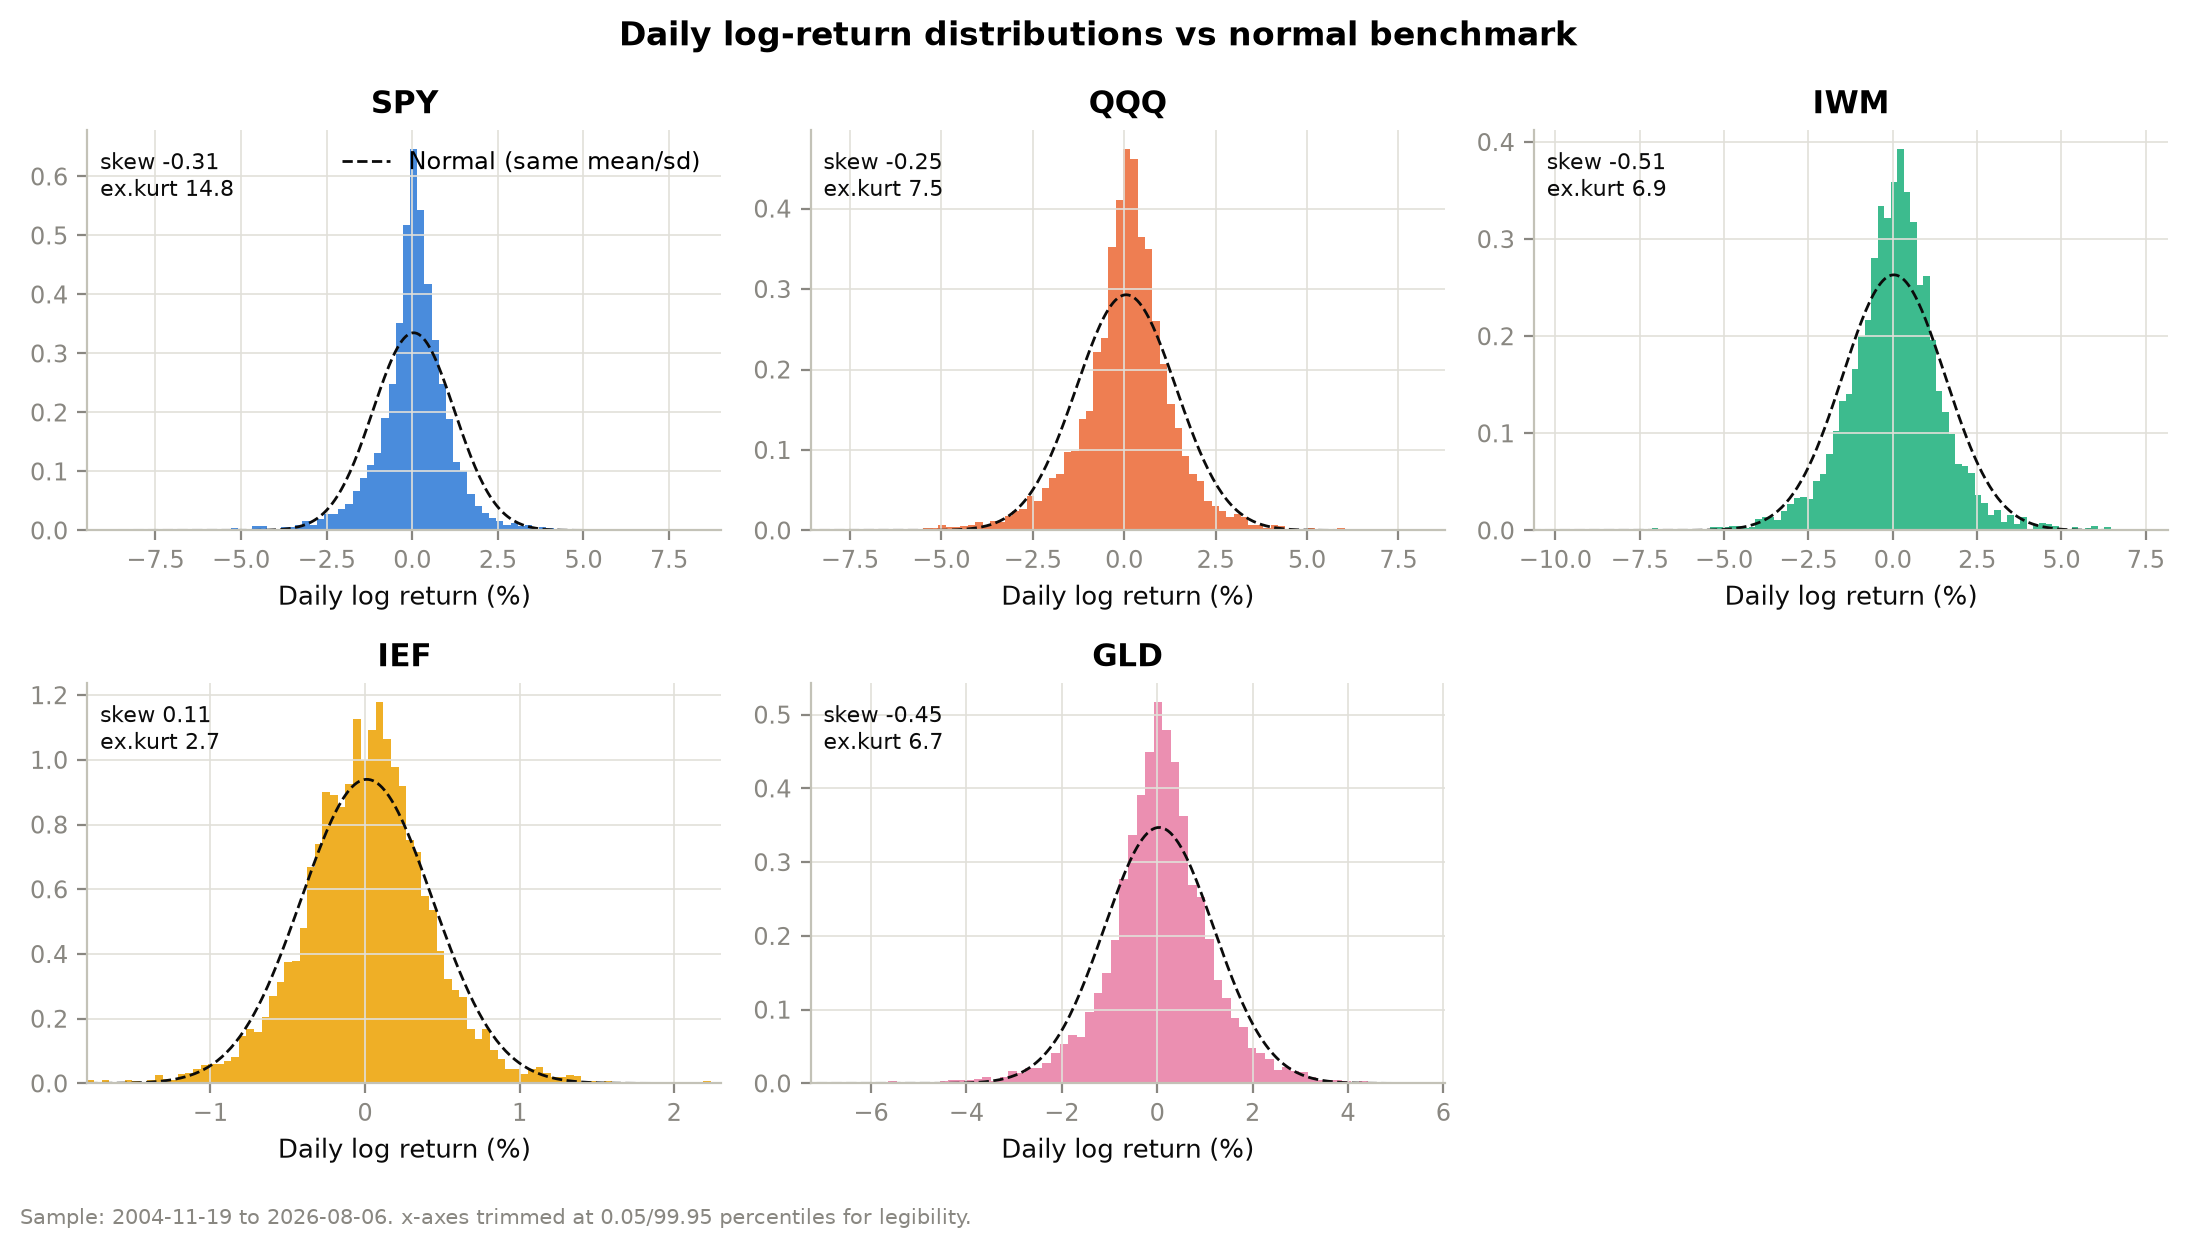
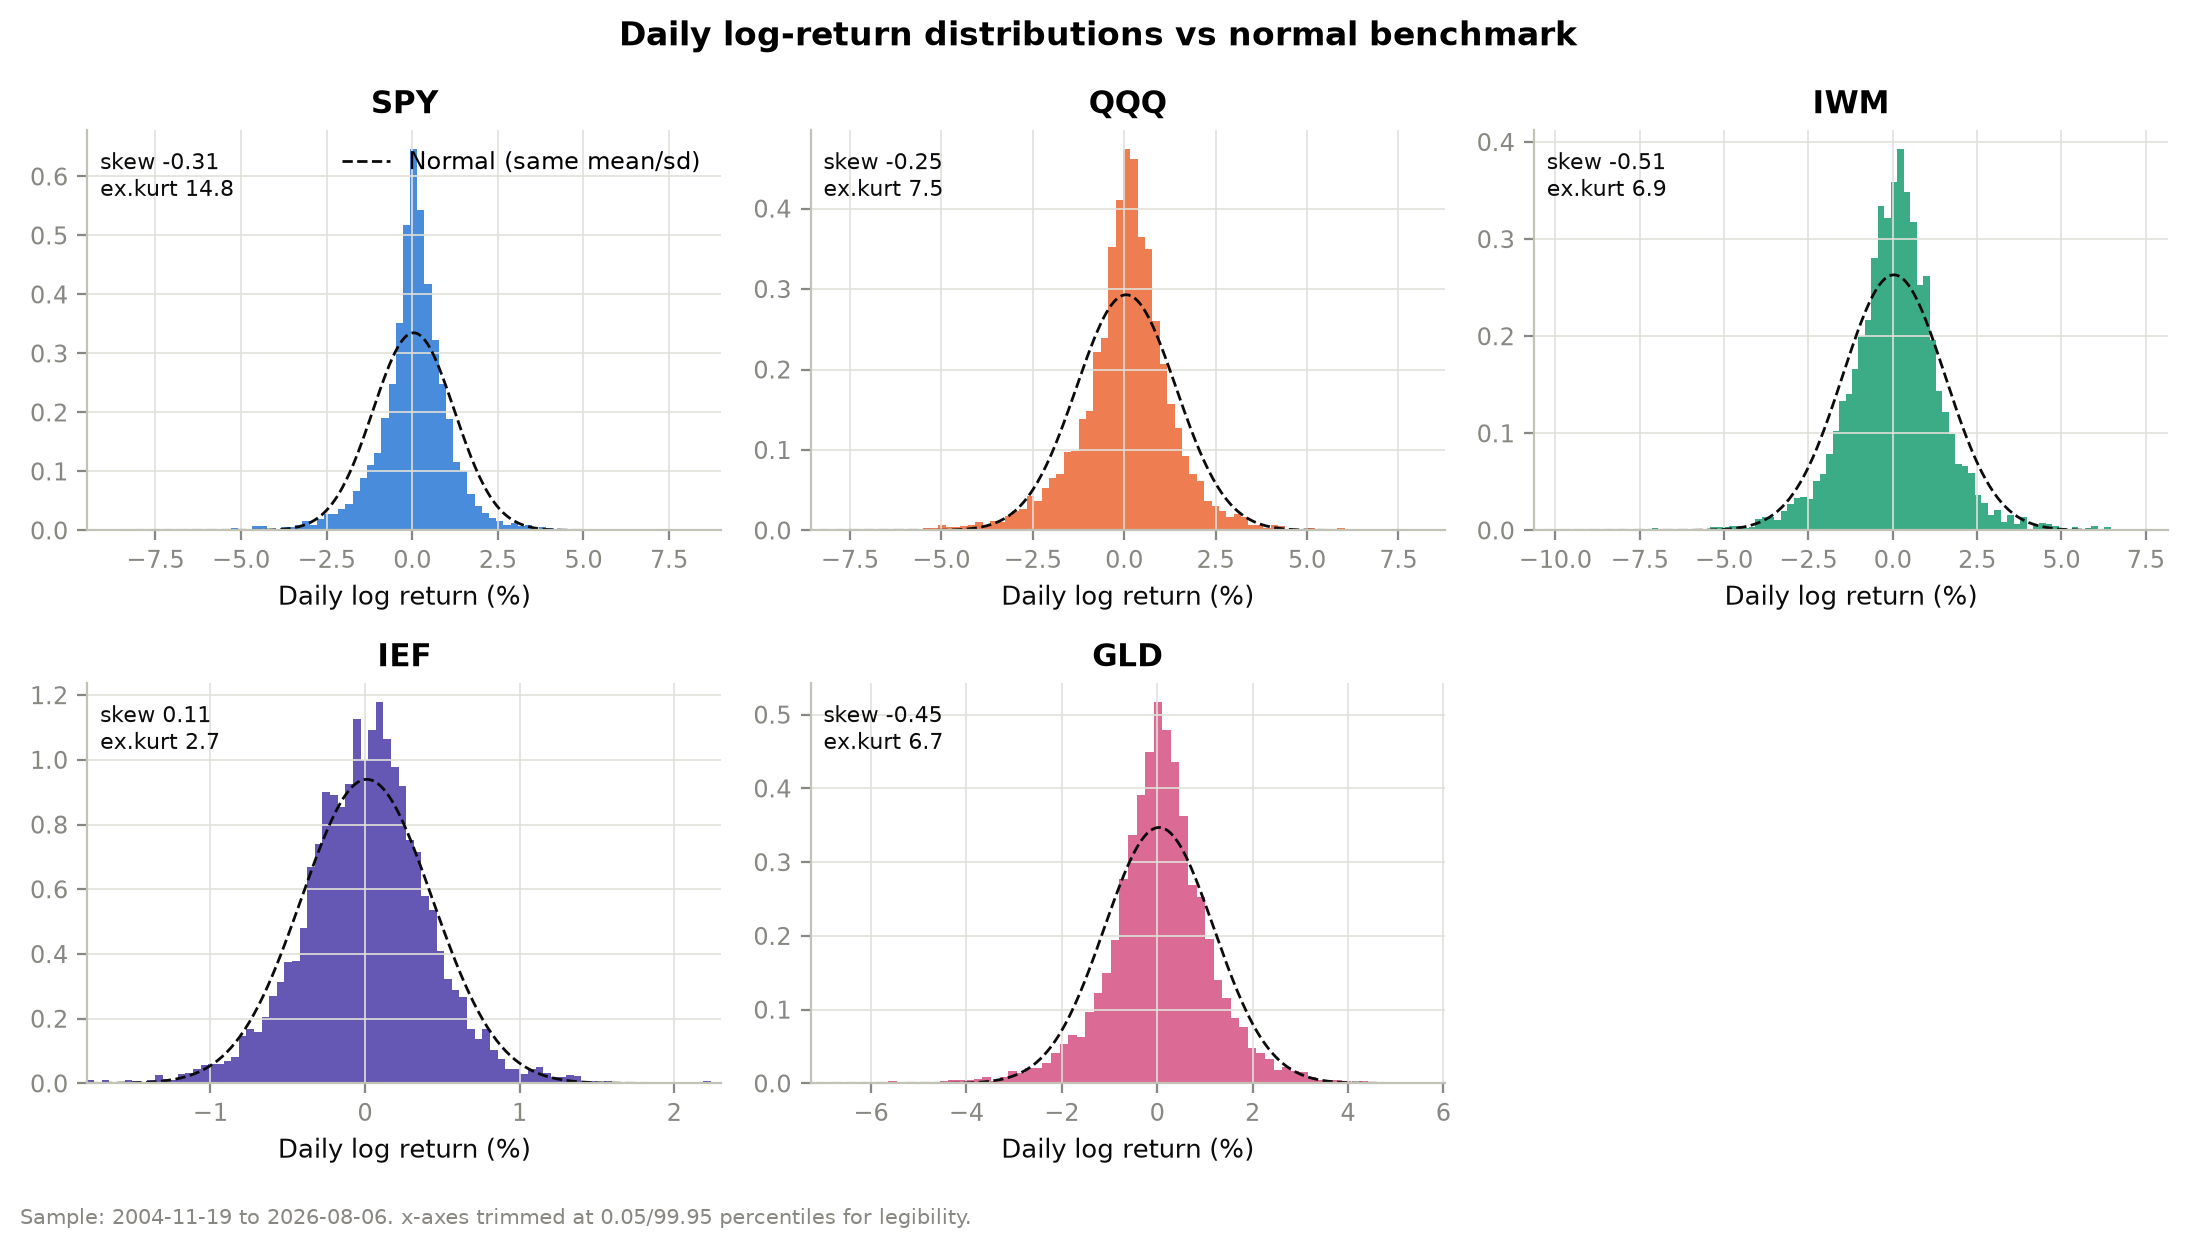
Phase 4 documentation corrections (pre-Phase 5, tables unchanged)
- Figure palette: replace the three sub-3:1-contrast slots with darker
  same-hue steps (IWM #199e70, IEF violet #4a3aa7, GLD #d55181); the
  5-slot set now passes every palette check on white including >=3:1
  contrast for all slots (validated by script). Figures regenerated;
  all tables byte-identical.
- Report: long-only covariance phrasing (concentrated/unstable
  minimum-variance weights, not short-offsetting), overlapping-window
  caveat on the VIX-vs-next-21d-RV correlation (descriptive, no
  p-value), explicit statement that forward-looking realized vol never
  enters any feature panel, revision note in header.
- Confirmed no causal event attribution for the 2025 volatility episode
  exists in the repo (phrasing is neutral).

Changed region(s): [[0.0622, 0.562, 0.2486, 0.8743], [0.4662, 0.5933, 0.5905, 0.8743]]

diff --git a/src/visualization.py b/src/visualization.py
@@ -3,11 +3,13 @@
 Style rules applied throughout:
 
 * One fixed color per asset across every figure (color follows the
-  entity, never position): SPY blue, QQQ orange, IWM aqua, IEF yellow,
-  GLD magenta. The 5-slot categorical palette passes colorblind-safety
-  validation (worst adjacent CVD dE 9.1); the three lower-contrast
-  slots are mitigated with legends, direct end labels, and CSV table
-  views of every plotted series.
+  entity, never position): SPY blue, QQQ orange, IWM dark aqua, IEF
+  violet, GLD dark magenta. This 5-slot set passes every palette check
+  on the white figure surface (lightness band, chroma floor, adjacent
+  CVD separation worst dE 8.4, normal-vision floor 27.1, and >= 3:1
+  contrast for all five slots; validated with the palette script, not
+  by eye). Legends plus CSV table views of every plotted series remain
+  as secondary encoding.
 * Single y-axis per panel, always. Recessive hairline grid, muted axis
   ink, no chartjunk.
 * Every figure states its sample range in a footnote.
@@ -28,9 +30,9 @@ import pandas as pd
 ASSET_COLORS = {
     "SPY": "#2a78d6",  # blue
     "QQQ": "#eb6834",  # orange
-    "IWM": "#1baf7a",  # aqua
-    "IEF": "#eda100",  # yellow
-    "GLD": "#e87ba4",  # magenta
+    "IWM": "#199e70",  # dark aqua
+    "IEF": "#4a3aa7",  # violet
+    "GLD": "#d55181",  # dark magenta
 }
 SERIES_1 = "#2a78d6"
 SERIES_2 = "#eb6834"

diff --git a/outputs/phase4_eda_report.md b/outputs/phase4_eda_report.md
@@ -1,8 +1,14 @@
 # Phase 4 — EDA and Data-Quality Report
 
-**Generated from:** git commit `5350b27` · config SHA-256 `54ccd33d…855d6c` ·
-data snapshot `manifest_2026-08-06.json` (SHA-256 `6ce35432…715c2`)
+**Generated from:** config SHA-256 `54ccd33d…855d6c` ·
+data snapshot `manifest_2026-08-06.json` (SHA-256 `6ce35432…715c2`) ·
+git commit per [eda_manifest.json](eda_manifest.json)
 **Run:** 2026-08-15, `python scripts/run_analysis.py`
+**Revised 2026-08-15** (documentation only, before Phase 5; tables
+unchanged): figure palette moved to darker validated steps (IEF now
+violet; all five slots ≥3:1 contrast on white), long-only covariance
+phrasing corrected in §4, overlapping-window caveat added to the
+forward-volatility correlation in §3.
 **Scope:** descriptive only. **No volatility model, HMM, portfolio
 optimization, or backtest was estimated or examined in this phase**, and
 nothing below alters the preregistered specification
@@ -104,6 +110,11 @@ Yes — material, and quantified (`vix_vs_realized_vol_stats.csv`,
   scatter (`vix_vs_realized_vol.png`) shows the familiar implied-premium
   wedge: VIX sits above realized on most days.
 
+A caveat on the 0.71: consecutive 21-day realized-volatility windows
+overlap, so the observations behind that correlation are strongly
+serially dependent. The number is **descriptive only**; no ordinary
+correlation p-value applies, and none is attached.
+
 Implication: in the 4-feature HMM, VIX and realized volatility will
 share most of their level variance, so the model may behave largely as a
 volatility classifier. This is exactly the scenario the preregistration
@@ -111,9 +122,14 @@ anticipated: the main specification keeps both features, and the
 **drop-VIX and drop-realized-vol ablations already in the frozen
 robustness grid are the designated test** of whether either feature
 carries independent regime information. The forward-looking component of
-VIX (0.71 predictive correlation) is the a-priori reason to keep it.
-No specification change is made, and none of these numbers was used to
-select features.
+VIX is the a-priori reason to keep it. No specification change is made,
+and none of these numbers was used to select features.
+
+Forward-looking realized volatility (the next-21-day series) exists
+**only** inside this descriptive statistic and in forecast-evaluation
+targets; it is not a column of any feature panel, and the Phase 6
+feature builder must pass the `assert_causal` truncation test before any
+regime is estimated.
 
 ## 4. Do ETF correlations create conditioning problems?
 
@@ -123,9 +139,11 @@ negatively correlated with equities (−0.24 to −0.28) and GLD is nearly
 orthogonal (0.06-0.21). The full-sample correlation matrix's eigenvalues
 are 2.87 / 1.18 / 0.71 / 0.18 / 0.06 (`correlation_conditioning.csv`):
 the first principal component carries 57.4% of variance and the
-**condition number is 46.5**. A minimum-variance optimizer fed the raw
-sample matrix will happily build large offsetting positions inside the
-near-collinear equity block, which is unstable out-of-sample.
+**condition number is 46.5**. Because the portfolios are long-only, the
+failure mode is not literal short-against-long offsetting: the highly
+correlated equity block can create unstable or concentrated
+minimum-variance weights, with allocations lurching between
+near-substitutes from one estimation window to the next.
 
 The preregistered design already carries the mitigations: Ledoit-Wolf
 shrinkage in the primary comparator and regime strategy, the 40% weight
